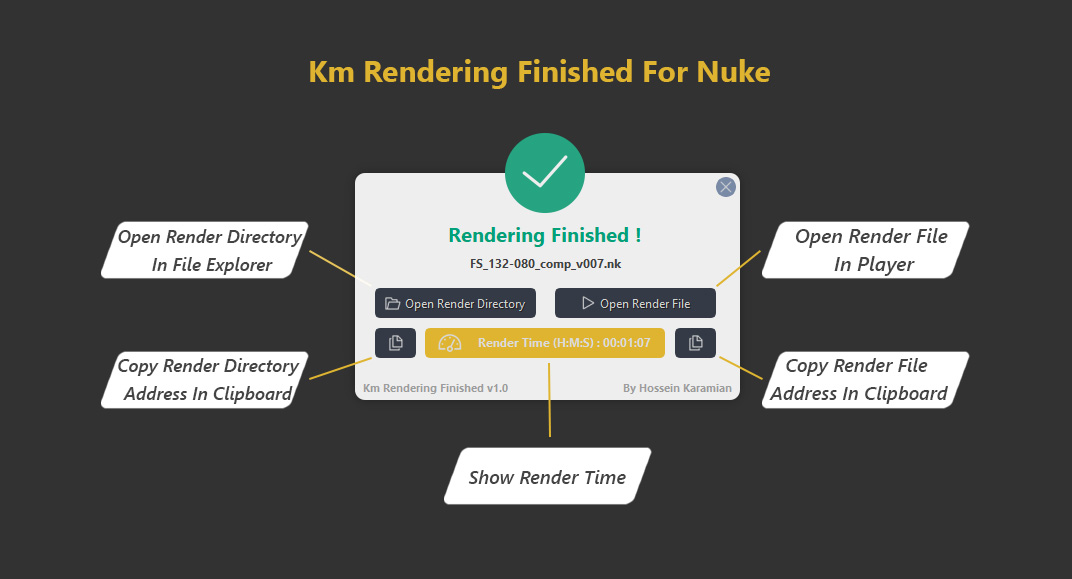
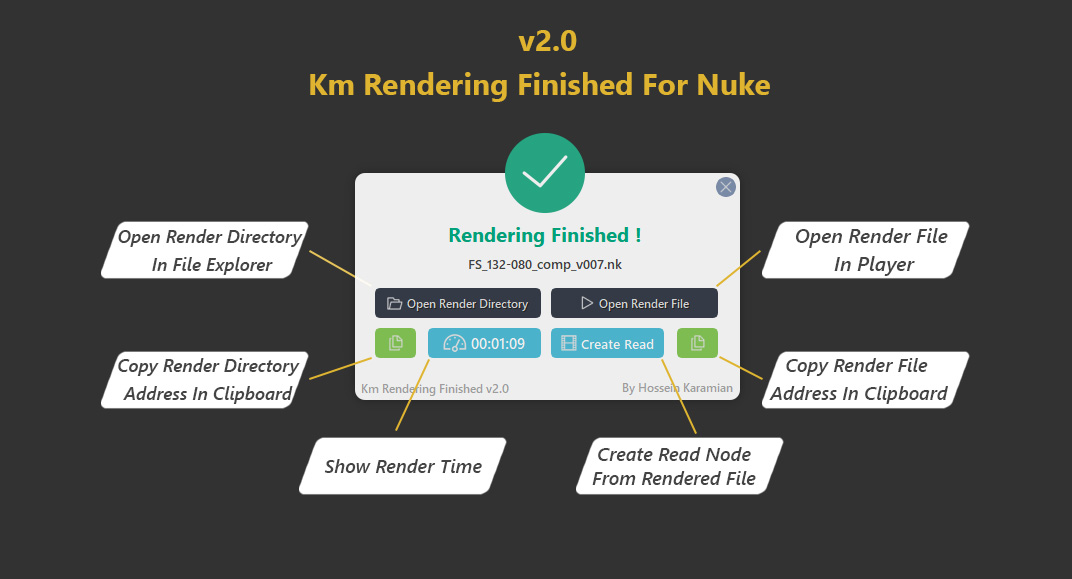
v2.0

diff --git a/Km_Rendering_Finished/Km_RF.py b/Km_Rendering_Finished/Km_RF.py
@@ -3,7 +3,7 @@
 #
 # Developed By Hossein Karamian
 # 
-# www.kmworks.ir
+# www.hkaramian.com
 #
 #    _  __  __  __ 
 #   | |/ / |  \/  |
@@ -17,7 +17,7 @@ Changes Log :
 v1.0 | First version | November 24 , 2021 
 v1.0.1 | Bug Fix , in some cases notification window disappears just after it's popping up | November 25 , 2021 
 v1.0.2 | Bug Fix | November 27 , 2021 
-v2.0 | Linux compatible , Bug Fix , Add Create Read Node Button | December 10 , 2021
+v2.0 | Linux compatible , Bug Fix , Add Create Read Node Button, Open Render File button now also working for sequence renders | December 10 , 2021
 """
 
 

diff --git a/Km_Rendering_Finished/menu.py b/Km_Rendering_Finished/menu.py
@@ -5,4 +5,4 @@ if int(nuke.env ["NukeVersionMajor"]) >= 11:
     import Km_RF
     menu = nuke.menu("Nuke")
     Km_Tools_menu = menu.addMenu("KmTools")
-    Km_Tools_menu.addCommand("Km Rendering Finished","nuke.message('This tool pop up a Notification with some tools after a render finished \\n Km Rendering Finished v1.0.2')","")
+    Km_Tools_menu.addCommand("Km Rendering Finished","nuke.message('This tool pop up a Notification with some tools after a render finished \\n Km Rendering Finished v2.0')","")
